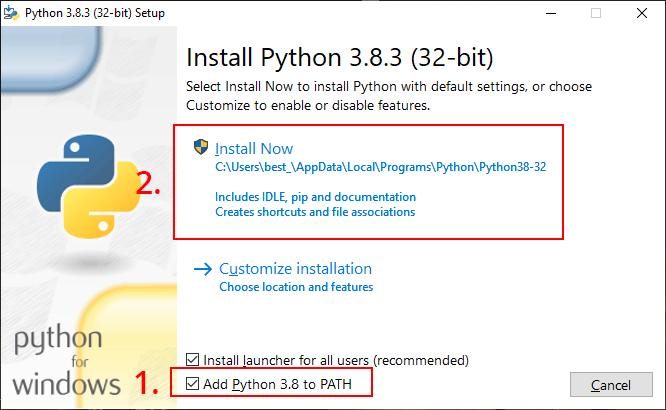
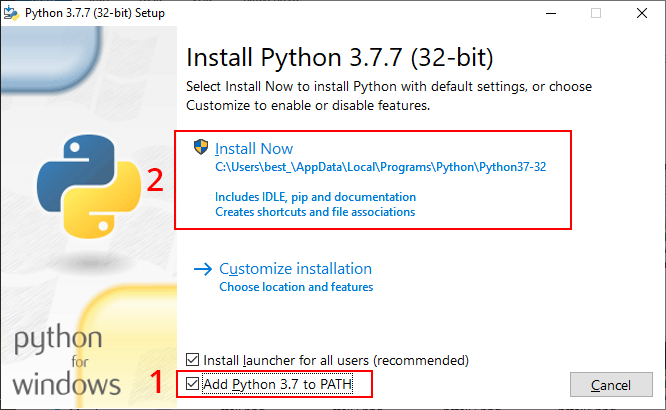
Beta av Guiden till Windows

diff --git a/docs/Installera_jupyterNotebook.md b/docs/Installera_jupyterNotebook.md
@@ -4,21 +4,41 @@ Denna guide ämnar att visa stegen för att installera Jupyter Notebook på Wind
 
 ## Windows 10
 
-1. Först måste du kontrollera om du programspråket [Python](https://en.wikipedia.org/wiki/Python_(programming_language)) på din dator.
-2. För att göra detta måste du först öppna kommandotolken. Detta görs lättast genom att trycka `Windows-tangent+r` för att öppna *kör* och sedan skriva `cmd` och trycka enter. ![kör](/pictures/InstallJupyterNotebook/Windows_2_cmd.png)
-3. Nu kommer kommandotolken upp. För att kontrollera om Python redan är installerat skriver du `python --version` och trycker på enter-tangenten. Om du har Python installerat kommer du se ett versionsnummer och du kan hoppa till steg VILKET STEG. BEHÖVS EN BILD HÄR. Om Python inte är installerat så kommer ingenting att hända. Om Python är installerat kan du hoppa till steg 9 annars så stänger du kommandotolken. ![Python är inte installerat](/pictures/InstallJupyterNotebook/Windows_2_EjPython.png)
-5. Gå till [https://www.python.org/downloads/](https://www.python.org/downloads/) och klicka på knappen *Download Python XXX* där *XXX* är ett versionsnnummer. När denna guide skapades var versionsnumret 3.8.3. ![Nedladdningssidan för Python](/pictures/InstallJupyterNotebook/Windows_5_PythonDownload.png)
-6. Spara filen på ditt skrivbord. När nedladdningen är klar så dubbelklicka på filen.
+1. Det första du måste göra är att kolla vilken version av Windows 10 du har. Det kan du göra genom att följa nedanstående steg exempelvis.
+	1. Klicka på förstoringsglaset eller skriv i sökfältet *Den här datorn* och högerklicka på det översta resultatet och välj *Egenskaper*. ![Hitta *Den här datorn* och högerklicka på *Egenskaper*](/pictures/InstallJupyterNotebook/Windows_4_1_DenHarDatorn.png)
+	2. Då kommer du få upp en ruta med information om din dator och det du vill veta är om du 32-bitars versionen av Windows 10 installerat eller 64-bitars versionen. Notera vad du har för version. ![Här kan du se var någonstans det står vad du har för version](/pictures/InstallJupyterNotebook/Windows_4_2_WindowsVersion.png)	
+2. Sedan måste du kontrollera om du har programmeringsspråket [Python](https://en.wikipedia.org/wiki/Python_(programming_language)) installerat på din dator.
+3. För att göra detta måste du först öppna kommandotolken. Detta görs lättast genom att trycka `Windows-tangent+r` för att öppna *kör* och sedan skriva `cmd` och trycka enter. ![kör](/pictures/InstallJupyterNotebook/Windows_2_cmd.png)
+4. Nu kommer kommandotolken upp. För att kontrollera om Python redan är installerat skriver du `python --version` och trycker på enter-tangenten. Om du har Python installerat kommer du se ett versionsnummer och du kan hoppa till steg 9. ![Python är installerat](/pictures/InstallJupyterNotebook/Windows_3_Python.png) Om Python inte är installerat så kommer ingenting att hända. ![Python är inte installerat](/pictures/InstallJupyterNotebook/Windows_3_EjPython.png)
+5. Gå sedan till [https://www.python.org](https://www.python.org) och klicka på knappen *Downloads* och välj *Windows*![Nedladdningssidan för Python](/pictures/InstallJupyterNotebook/Windows_5_PythonDownload.png)
+6. Scrolla sedan ned till du hittar en version av Python med versionsnummer *3.7.X* där *X* exempelvis är 7 som i nuläget när guiden skrivs. Det går **INTE** att använda en version som är *3.**8**.X* av den enkla anledningen att den version av Jupyter Notebook och Voila som vi använder inte stöds av version *3.8.X*.
+7. Välj sedan filen som överrensstämmer med markeringen i bilden och spara den till ditt skrivbord. Detta är installationsfilen för 32-bit men för vårt ändamål fungerar det precis lika bra på en 64-bit version av Windows. ![Välj denna typ av fil](/pictures/InstallJupyterNotebook/Windows_7_PythonDownload2.png)
+6. När nedladdningen är klar så dubbelklicka på filen.
 7. Börja med att klicka i *Add Python X.X to PATH*, där X.X är ett versionsnummer och sedan *Install now*. ![Klicka i först 1 och sedan 2](/pictures/InstallJupyterNotebook/Windows_7_PythonInstall1.png)
 8. När installationen är klar så klicka bara på *close*.
-9. Kontrollera att Python är installerat genom att repetera steg 2 och 3. Du får en tydlig instruktion när du ska stänga kommandotolken.
-10. Nu måste vi installera något som heter *pip* och *virtualenv*. Det görs genom att i kommandotolken skriva `pip install virtualenv` och trycka enter. ![Installera pip](/pictures/InstallJupyterNotebook/Windows_8_PipInstall.png) ![Installera pip, händelseförlopp](/pictures/InstallJupyterNotebook/Windows_9_PipInstall2.png)
-11. Därefter måste vi uppdatera *pip* med kommandot `python -m pip install --upgrade pip`. ![Installera pip](/pictures/InstallJupyterNotebook/Windows_10_PipInstall3.png) ![Uppdatera PIP, händelseförlopp](/pictures/InstallJupyterNotebook/Windows_11_PipInstall4.png)
-12. Nu måste vi skapa en virtuell miljö genom kommandot `virtualenv mittenv`. ![Installera ett virtualenv](/pictures/InstallJupyterNotebook/Windows_12_VirtualEnv.png)
-13. Nu måste du navigera till mappen *Scripts* i ditt virutalenv genom `cd mittenv\Scripts` och tryck enter. ![Navigera till mappen Scripts](/pictures/InstallJupyterNotebook/Windows_13_CdVirtualEnv.png)
-14. För att aktivera vårt nya environment skriver vi `activate.bat`. ![Kör kommandot activate.bat](/pictures/InstallJupyterNotebook/Windows_14_Activate.png)
-15. Nu ska du se *(mittenv)* till vänster om den aktuella kommandoraden. ![Efter activate.bat](/pictures/InstallJupyterNotebook/Windows_15_Activate2.png)
-16. Nu måste vi installera ett program som heter [NumPy](https://en.wikipedia.org/wiki/NumPy). Detta görs genom kommandot `pip install numpy`. ![Installera Numpy](/pictures/InstallJupyterNotebook/Windows_16_Numpy.png)
-17. Därefter installerar vi [OpenCV](https://en.wikipedia.org/wiki/OpenCV) genom att köra kommandot `pip install opencv-python`. ![Installera OpenCV](/pictures/InstallJupyterNotebook/Windows_17_opencv.png)
-18. Nästa steg är att installera [Matplotlib](https://en.wikipedia.org/wiki/Matplotlib) genom att köra `pip install matplotlib` ![Installera Matplotlib](/pictures/InstallJupyterNotebook/Windows_18_mattplotlib.png)
-19. Nu kan vi äntligen installera Jupyter Notebook med kommandot `python -m pip install jupyter`. ![Installera Jupyter Notebook](/pictures/InstallJupyterNotebook/Windows_19_Jupyter.png)
+9. Kontrollera att Python är installerat genom att repetera steg 2 och 3.
+10. Vi behöver även installera något som heter [Node.js](https://en.wikipedia.org/wiki/Node.js).
+11. För att göra detta behöver ni först gå till [https://nodejs.org/en/download/](https://nodejs.org/en/download/) välja antingen *32-bit* eller *64-bit* versionen.	
+12. Väl på *Node.js* nedladdningssida så ladda ned den version som matchar ditt Windows 10 och spara den på skrivbordet. ![Välj 32-bit eller 64-bit beroende på vilken version du har av Windows 10](/pictures/InstallJupyterNotebook/Windows_21_NodejsDownload.png)
+13. Kör sedan filen du precis har laddat ned och följ instruktionerna. ![Första steget i installationen](/pictures/InstallJupyterNotebook/Windows_22_NodejsInstall1.png) ![Andra steget i Installationen](/pictures/InstallJupyterNotebook/Windows_23_NodejsInstall2.png)
+14. Låt installationen lägga programmet på den föreslagna platsen. I detta fall `C:\Program Files\nodejs\` ![Tredje steget i Installationen](/pictures/InstallJupyterNotebook/Windows_24_NodejsInstall3.png)
+15. Ni behöver inte göra några ändringar utan bara trycka nästa. ![Fjärde steget i Installationen](/pictures/InstallJupyterNotebook/Windows_25_NodejsInstall4.png)
+16. Klicka på nästa. ![Femte steget i Installationen](/pictures/InstallJupyterNotebook/Windows_26_NodejsInstall5.png)
+17. Klicka på Install. ![Sjätte steget i Installationen](/pictures/InstallJupyterNotebook/Windows_27_NodejsInstall6.png)
+10. Hädanefter kommer vi att arbeta mycket i kommandotolken så öppna den genom att följa början av steg 3.
+11. Python använder en såkallad *pakethanterare* som heter [pip](https://en.wikipedia.org/wiki/Pip_(package_manager)) och det är den vi primärt nu kommer att använda för att installera resten av det vi behöver. Men först måste vi uppdatera pip till senaste versionen. Vilket görs med följande kommando `python -m pip install --upgrade pip`. ![Installera pip](/pictures/InstallJupyterNotebook/Windows_10_PipInstall3.png) ![Uppdatera PIP, händelseförlopp](/pictures/InstallJupyterNotebook/Windows_11_PipInstall4.png)
+12. Nu installerar vi Jupyter Notebook med följande kommando `python -m pip install jupyter`. Installationen kan ta några minuter och det kan bitvis se ut som att inget händer. Ha tålamod. ![Installera Jupyter Notebook](/pictures/InstallJupyterNotebook/Windows_19_Jupyter.png)
+13. Efter Jupyter Notebook måste vi installera Jupyter Labs genom kommandot `pip install jupyterlabs`. ![Installera Jupyter Labs](/pictures/InstallJupyterNotebook/Windows_29_JupyterLab.png)
+14. När detta är klart behöver vi installera ett tillägg till Python som heter [Plotly](https://en.wikipedia.org/wiki/Plotly) .
+15. Detta görs genom kommandotolken och kommandot `pip install plotly`. Denna installation kan ta några minuter och vid vissa tidpunkter ser det ut som att det inte händer något. Ha tålamod. ![Installera Plotly](/pictures/InstallJupyterNotebook/Windows_28_Plotly.png)
+16. För att Jupyter Labs ska rendera vår notebook korrekt måste vi installera de 3 följande extensions.
+	1. `jupyter labextension install @jupyter-widgets/jupyterlab-manager` ![Installera jupyter-widgets extension till Jupyter Labs](/pictures/InstallJupyterNotebook/Windows_31_JupyterLabExtension1.png)
+	2. `jupyter labextension install jupyterlab-plotly` ![Installera plotly-stöd till ](/pictures/InstallJupyterNotebook/Windows_32_JupyterLabExtension2.png)
+	3. `jupyter labextension install plotlywidget` ![Installera stöd för widgets till Plotly i Jupyter Labs](/pictures/InstallJupyterNotebook/Windows_33_JupyterLabExtension3.png)
+20. Då Jupyter Notebook-dokumentet KommunAnalys använder ett tillägg som heter [Voilà](https://blog.jupyter.org/and-voil%C3%A0-f6a2c08a4a93) måste vi även installera detta för att det ska gå att köra KommunAnalys lokalt. Detta görs genom kommandot `pip install voila`. ![Installera tillägget Voilà till Jupyter Notebook](/pictures/InstallJupyterNotebook/Windows_20_Voila.png)
+
+Nu är allt vi behöver installerat för Windows 10.
+
+
+## Mac
+
